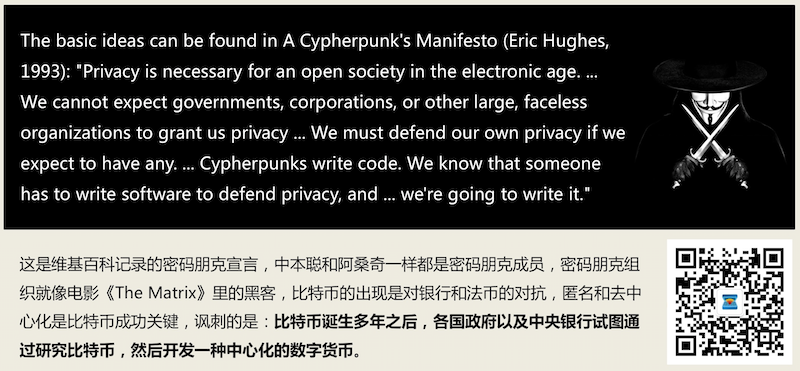
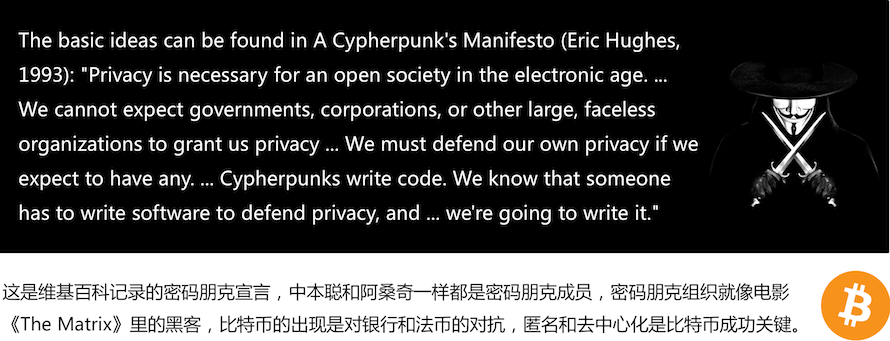
replace bitcoin image

diff --git a/3-cryptocurrencies/README.md b/3-cryptocurrencies/README.md
@@ -2,7 +2,7 @@
 
 ## Crypto Currencies Leaderboard
 
-The visualization is from [Nick Young](https://github.com/nickwb/cryptographic)the data is from [coinmarketcap.com](https://coinmarketcap.com/)
+The visualization is from [Nick Young](https://github.com/nickwb/cryptographic), data is from [coinmarketcap.com](https://coinmarketcap.com/)
 
 ![Crypto Currency Leaderboard](https://raw.githubusercontent.com/the-blockchain-bible/readme/master/assets/cryptocurrency.png)
 
